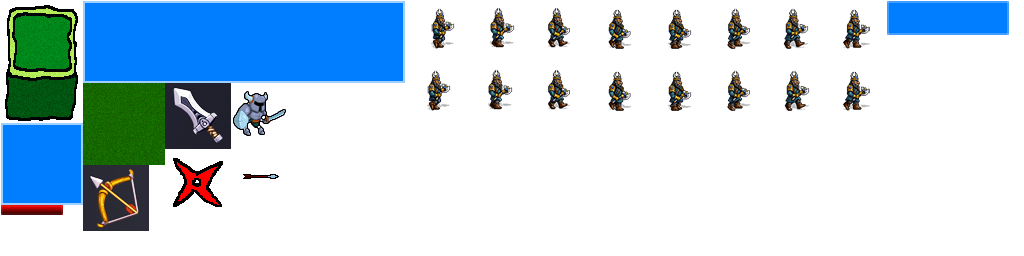
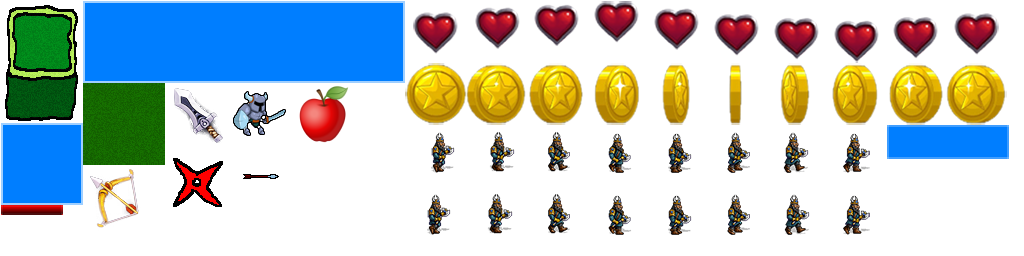
lesson6 если грохнуть монстра выпадают монетки или жизни или оружие

diff --git a/core/src/com/geekbrains/rpg/game/logic/Bonus.java b/core/src/com/geekbrains/rpg/game/logic/Bonus.java
@@ -1,0 +1,117 @@
+package com.geekbrains.rpg.game.logic;
+
+import com.badlogic.gdx.graphics.g2d.BitmapFont;
+import com.badlogic.gdx.graphics.g2d.SpriteBatch;
+import com.badlogic.gdx.graphics.g2d.TextureRegion;
+import com.badlogic.gdx.math.MathUtils;
+import com.badlogic.gdx.math.Vector2;
+import com.geekbrains.rpg.game.logic.utils.Consumable;
+import com.geekbrains.rpg.game.logic.utils.MapElement;
+import com.geekbrains.rpg.game.logic.utils.Poolable;
+import com.geekbrains.rpg.game.screens.utils.Assets;
+
+public class Bonus implements MapElement, Poolable, Consumable {
+    public enum Type {
+        HEALTH, COINS
+    }
+
+
+    private GameController gc;
+    private TextureRegion[][] textures;
+    private Type type;
+    private String title;
+    private Vector2 position;
+    private int amount;
+    private boolean active;
+
+
+    public Vector2 getPosition() {
+        return position;
+    }
+
+    @Override
+    public int getCellX() {
+        return (int) (position.x / 80);
+    }
+
+    @Override
+    public int getCellY() {
+        return (int) (position.y / 80);
+    }
+
+    public Type getType() {
+        return type;
+    }
+
+    public String getTitle() {
+        return title;
+    }
+
+
+    public void setPosition(float x, float y) {
+        this.position.set(x, y);
+    }
+
+    /**
+     * при создании задаем позицию по умолчанию
+     */
+    public Bonus(GameController gc) {
+        this.gc = gc;
+        this.amount = 0;
+        this.position = new Vector2(0, 0);
+    }
+
+    public Bonus(Type type, String title) {
+        this.type = type;
+        this.title = title;
+    }
+
+
+    @Override
+    public boolean isActive() {
+        return active;
+    }
+
+    /**
+     * если персонаж потребляет это оружие то персонажу задаем оружие равное себе(оружию) -gameCharacter.setWeapon(this);
+     * а себя деактивируем active = false;
+     *
+     * @param gameCharacter
+     */
+    @Override
+    public void consume(GameCharacter gameCharacter) {
+        if (type == Type.HEALTH) {
+            gameCharacter.setHealth();
+        } else {
+            gameCharacter.addCoins(MathUtils.random(10));
+        }
+        active = false;
+    }
+
+    @Override
+    public void render(SpriteBatch batch, BitmapFont font) {
+        batch.draw(textures[0][gc.getBonusController().getCurrentFrameIndex(textures[0].length)], position.x - 32, position.y - 32);
+    }
+
+    public void setup(Type type, String title, int coins) {
+        this.type = type;
+        //выбираем нужную текстуру  в зависимости от дальности
+        if (type == Type.HEALTH) {
+            textures = new TextureRegion(Assets.getInstance().getAtlas().findRegion("heart60")).split(60, 60);
+        } else {
+            textures = new TextureRegion(Assets.getInstance().getAtlas().findRegion("coin60")).split(60, 60);
+            this.amount += coins;
+        }
+        this.title = title;
+        this.active = true; //активируем bonus
+    }
+
+    //TODO
+    public static Bonus createBonusHealth() {
+        return new Bonus(Type.HEALTH, "Health");
+    }
+
+    public static Bonus createBonusCoins() {
+        return new Bonus(Type.COINS, "Coins");
+    }
+}

diff --git a/core/src/com/geekbrains/rpg/game/logic/GameController.java b/core/src/com/geekbrains/rpg/game/logic/GameController.java
@@ -14,6 +14,7 @@ public class GameController {
     private ProjectilesController projectilesController;
     private MonstersController monstersController;
     private WeaponsController weaponsController;
+    private BonusController bonusController;
     private List<GameCharacter> allCharacters;
     private Map map;
     private Hero hero;
@@ -51,6 +52,10 @@ public class GameController {
         return weaponsController;
     }
 
+    public BonusController getBonusController() {
+        return bonusController;
+    }
+
     /**
      * монстр контроллер можно создать только после того как мапа будет готова такак мы там ее используем для проверки залипания:
      * this.monstersController = new MonstersController(this, 5); - передаем туда ссылку на эту игру и колличество монстров в пачке
@@ -60,6 +65,7 @@ public class GameController {
         this.allCharacters = new ArrayList<>();
         this.projectilesController = new ProjectilesController();
         this.weaponsController = new WeaponsController(this);
+        this.bonusController = new BonusController(this);
         this.hero = new Hero(this);
         this.map = new Map();
         this.monstersController = new MonstersController(this, 5);
@@ -93,6 +99,7 @@ public class GameController {
         checkCollisions();
         projectilesController.update(dt);
         weaponsController.update(dt);
+        bonusController.update(dt);
     }
 
     public void collideUnits(GameCharacter u1, GameCharacter u2) {
@@ -187,6 +194,13 @@ public class GameController {
             Weapon w = weaponsController.getActiveList().get(i);
             if (hero.getPosition().dst(w.getPosition()) < 20) {
                 w.consume(hero);
+            }
+        }
+        //перебираем все bonus и у активного , если расстояние от центра героя и до центра bonus меньше 20 тогда берем
+        for (int i = 0; i < bonusController.getActiveList().size(); i++) {
+            Bonus bonus = bonusController.getActiveList().get(i);
+            if (hero.getPosition().dst(bonus.getPosition()) < 20) {
+                bonus.consume(hero);
             }
         }
         //прожектиль выпустили он летит по карте

diff --git a/core/src/com/geekbrains/rpg/game/logic/BonusController.java b/core/src/com/geekbrains/rpg/game/logic/BonusController.java
@@ -1,0 +1,56 @@
+package com.geekbrains.rpg.game.logic;
+
+import com.badlogic.gdx.graphics.g2d.TextureRegion;
+import com.badlogic.gdx.math.MathUtils;
+import com.geekbrains.rpg.game.logic.utils.ObjectPool;
+
+public class BonusController extends ObjectPool<Bonus> {
+    private GameController gc;
+    protected float walkTime; //таймер для анимации
+    protected float timePerFrame;  //скорость смены кадра анимации
+
+    @Override
+    protected Bonus newObject() {
+        return new Bonus(gc);
+    }
+
+    public BonusController(GameController gc) {
+        this.gc = gc;
+        this.timePerFrame = 0.2f; //скорость смены кадра анимации
+    }
+
+    /**
+     * указание позиции - передаем х у public void setup(float x, float y) {
+     *        Weapon.Type type = Weapon.Type.MELEE; //по умолчанию оружие ближнебойное выпадает
+     *         float range = 60.0f;
+     * проверяем рандом 40% меняем оружие на дальнее
+     *         if (MathUtils.random(100) < 40) {
+     *             type = Weapon.Type.RANGED;
+     *             range = 160.0f;
+     *         }
+     * создаем оружие
+     *         w.setup(type, "Weapon", MathUtils.random(1, 4), maxDamage, 0.4f, range);
+     * задаем оружию текущую позицию:
+     *         w.setPosition(x, y);
+     * @param x
+     * @param y
+     */
+    public void setup(float x, float y, int coins) {
+        Bonus bonus = getActiveElement();
+        Bonus.Type type = Bonus.Type.HEALTH;
+        if (MathUtils.random(100) < 40) {
+            type = Bonus.Type.COINS;
+        }
+        bonus.setup(type, "Bonus", coins);
+        bonus.setPosition(x, y);
+    }
+
+    public void update(float dt) {
+        walkTime += dt; // для включения анимации
+        checkPool();
+    }
+
+    public int getCurrentFrameIndex(int l) {
+        return (int) (walkTime / timePerFrame) % l;
+    }
+}

diff --git a/core/src/com/geekbrains/rpg/game/logic/GameCharacter.java b/core/src/com/geekbrains/rpg/game/logic/GameCharacter.java
@@ -55,10 +55,10 @@ public abstract class GameCharacter implements MapElement {
 
     protected float visionRadius;
     protected float speed;
+    protected int coins;
     protected int hp, hpMax;
 
     protected Weapon weapon; //каждый персонаж владеет только 1 оружием оружие делается в конструкторе каждого персонада отдельно сами они его вояют
-
 
     public int getCellX() {
         return (int) position.x / 80;
@@ -68,6 +68,10 @@ public abstract class GameCharacter implements MapElement {
         return (int) (position.y - 20) / 80;
     }
 
+    public int getCoins() {
+        return coins;
+    }
+
     /**
      * метод установить подобранное оружие
      *
@@ -75,6 +79,14 @@ public abstract class GameCharacter implements MapElement {
      */
     public void setWeapon(Weapon weapon) {
         this.weapon = weapon;
+    }
+
+    public void setHealth() {
+        this.hp = this.hpMax;
+    }
+
+    public void addCoins(int amount) {
+        coins += amount;
     }
 
     /**
@@ -142,6 +154,7 @@ public abstract class GameCharacter implements MapElement {
         this.hpMax = hpMax;
         this.hp = this.hpMax;
         this.speed = speed;
+        this.coins = 0;
         this.state = State.IDLE;
         this.stateTimer = 1.0f;
         this.timePerFrame = 0.2f; //скорость смены кадра анимации

diff --git a/core/src/com/geekbrains/rpg/game/logic/Hero.java b/core/src/com/geekbrains/rpg/game/logic/Hero.java
@@ -9,12 +9,11 @@ import com.geekbrains.rpg.game.screens.utils.Assets;
 
 public class Hero extends GameCharacter {
     private TextureRegion texturePointer;
-    private int coins;
     private StringBuilder strBuilder;
 
-    public void addCoins(int amount) {
-        coins += amount;
-    }
+//    public void addCoins(int amount) {
+//        coins += amount;
+//    }
 
     /**
      * грузи свою картинку - распиливац ее на блоки 60 на 60 получится двумерныый массив размер будет пока 1 на 1

diff --git a/core/src/com/geekbrains/rpg/game/logic/WorldRenderer.java b/core/src/com/geekbrains/rpg/game/logic/WorldRenderer.java
@@ -52,6 +52,12 @@ public class WorldRenderer {
             Weapon w = gc.getWeaponsController().getActiveList().get(i);
             drawables[w.getCellY()].add(w);
         }
+        //отрисовка бонусов
+        for (int i = 0; i < gc.getBonusController().getActiveList().size(); i++) {
+            Bonus bonus = gc.getBonusController().getActiveList().get(i);
+            drawables[bonus.getCellY()].add(bonus);
+        }
+
         Gdx.gl.glClearColor(0, 0, 0, 1);
         Gdx.gl.glClear(GL20.GL_COLOR_BUFFER_BIT);
         batch.begin();

diff --git a/core/src/com/geekbrains/rpg/game/logic/Monster.java b/core/src/com/geekbrains/rpg/game/logic/Monster.java
@@ -85,7 +85,11 @@ public class Monster extends GameCharacter implements Poolable {
     @Override
     public void onDeath() {
         super.onDeath();
-        gc.getWeaponsController().setup(position.x,position.y);
+        if(MathUtils.random(100)<50){
+            gc.getBonusController().setup(position.x, position.y, this.getCoins());
+        }else {
+            gc.getWeaponsController().setup(position.x, position.y);
+        }
     }
 
     /**

diff --git a/core/src/com/geekbrains/rpg/game/logic/MonstersController.java b/core/src/com/geekbrains/rpg/game/logic/MonstersController.java
@@ -38,7 +38,7 @@ public class MonstersController extends ObjectPool<Monster> {
      */
     public MonstersController(GameController gc, int initialCount) {
         this.gc = gc;
-        this.spawnPeriod = 2.0f;
+        this.spawnPeriod = 10.0f;
         for (int i = 0; i < initialCount; i++) {
             getActiveElement().generateMe();
         }
